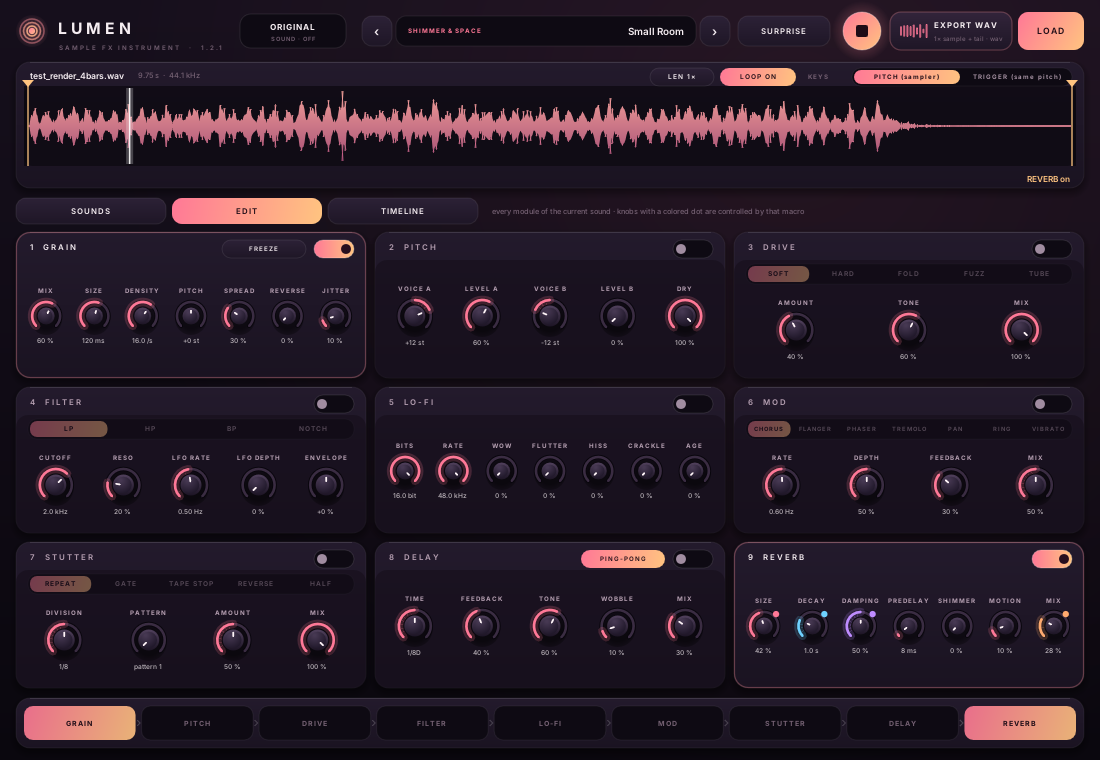
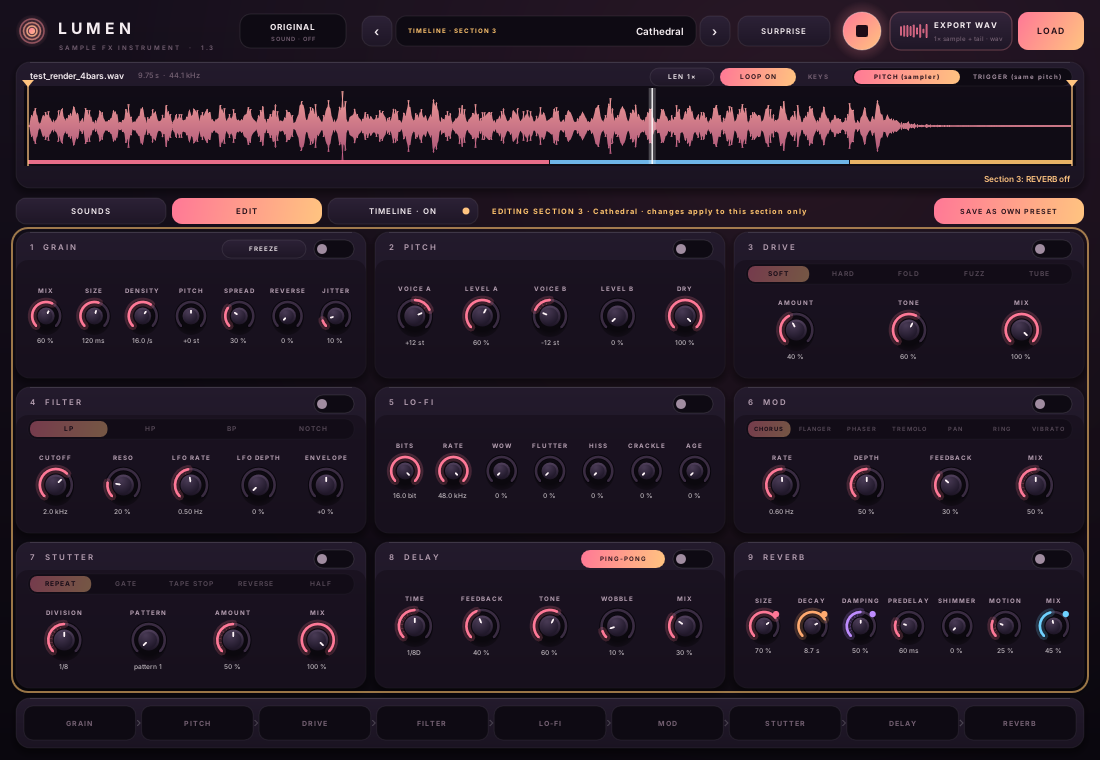
Lumen 1.3: manual and screenshots

diff --git a/docs/make_lumen_manual.py b/docs/make_lumen_manual.py
@@ -25,19 +25,19 @@ def table(rows, widths, style=B):
                            ("LEFTPADDING", (0, 0), (-1, -1), 6), ("RIGHTPADDING", (0, 0), (-1, -1), 6)]))
     return t
 
-story = [Paragraph("Lumen", TITLE), Paragraph("Sample effect instrument &mdash; user manual, version 1.2.1", S), Spacer(1, 4 * mm),
+story = [Paragraph("Lumen", TITLE), Paragraph("Sample effect instrument &mdash; user manual, version 1.3", S), Spacer(1, 4 * mm),
          Image(shot, width=165 * mm, height=165 * mm * 760 / 1100), Spacer(1, 3 * mm)]
 
 story += [Paragraph("What it is", H2), P(
-    "Lumen plays your sample through <b>204 effect sounds in 12 categories</b>: "
-    "granular clouds, shimmering spaces, pads, rhythmic glitches, tape and lo-fi, pitch and harmony, filter motion and drive &mdash; and, new in 1.2, "
-    "<b>Breakcore &amp; Chaos</b>, <b>Dreamy &amp; Nostalgic</b>, <b>Cinematic &amp; Dark</b> and <b>Sci-Fi &amp; Experimental</b>. "
+    "Lumen plays your sample through <b>219 effect sounds in 13 categories</b>, plus your own: "
+    "granular clouds, shimmering spaces, pads, rhythmic glitches, tape and lo-fi, pitch and harmony, filter motion and drive, breakcore, dreamy, cinematic and sci-fi sounds &mdash; and, new in 1.3, <b>Beautiful Transforms</b>: "
+    "sounds that turn the sample into a choir, strings, glass, bells or wind chimes. "
     "Pick a sound, turn the four big knobs, and drag the result straight into FL Studio. "
     "It is an instrument (it shows up in your instrument list, not under effects). VST3 and CLAP for Windows 10/11 (64-bit). "
     "Loads WAV, AIFF, FLAC and MP3.")]
 
 story += [Paragraph("Install", H2), P(
-    "Run <b>Lumen-1.2.1-Windows-Setup.exe</b> (installing over any older Lumen is fine, and your projects keep their sounds; close your DAW first). It installs Lumen.vst3 to <font face='Courier'>C:\\Program Files\\Common Files\\VST3</font>, "
+    "Run <b>Lumen-1.3-Windows-Setup.exe</b> (installing over any older Lumen is fine, and your projects keep their sounds; close your DAW first). It installs Lumen.vst3 to <font face='Courier'>C:\\Program Files\\Common Files\\VST3</font>, "
     "Lumen.clap to <font face='Courier'>...\\Common Files\\CLAP</font> and this manual to <font face='Courier'>C:\\Program Files\\Lumen</font>. "
     "<b>FL Studio:</b> Options &rarr; Manage plugins &rarr; <i>Find installed plugins</i>; Lumen appears with the instruments (Generators). "
     "SmartScreen may warn because the installer isn't code-signed: <i>More info</i> &rarr; <i>Run anyway</i>.")]
@@ -60,8 +60,13 @@ story += [Paragraph("The main screen", H2), table([
     ["Play / STOP", "Plays the sample from the start. With LOOP OFF it plays once and the button pops out at the end. "
              "While anything can be heard (Play, MIDI keys, or echoes and reverb still ringing) the button shows a square: <b>STOP</b> cuts everything "
              "to silence at once (with a 10 ms fade so it doesn't click)."],
-    ["DRAG TO DAW", "Press and drag into FL Studio: renders the sample through the current sound (plus the reverb/echo tail) to a 24-bit WAV. "
-                    "A plain click saves it and opens the folder <font face='Courier'>Documents\\Grainfield Renders</font>."],
+    ["DRAG TO DAW", "Press and drag into FL Studio: you get the sample through the current sound (plus the reverb/echo tail) as a 24-bit WAV. "
+                    "It is rendered in the background as soon as your mouse reaches the tile (a small bar shows the progress, then <i>ready to drag</i>), "
+                    "so the plugin never freezes. A plain click saves it and opens the folder <font face='Courier'>Documents\\Grainfield Renders</font>."],
+    ["SAVE AS OWN PRESET", "Appears at the top right as soon as you change a sound (its knobs, or anything on the EDIT page). Type a name and "
+                           "press Enter: the sound goes into <b>OWN PRESETS</b>, the last category, in every project. They are kept in "
+                           "<font face='Courier'>Documents\\Lumen\\Own Presets.txt</font> (copy that file to take them to another computer); "
+                           "projects also keep a copy of the ones they use. Right-click an own preset twice to remove it."],
     ["LEN 1\u00d7 / 2\u00d7 / 4\u00d7", "How many times the sample plays in the render (for looping sounds and rhythmic effects)."],
     ["Waveform", "<b>Click</b> anywhere between the handles to play from that spot (click again somewhere else to jump there). "
                  "<b>Right-click</b> moves the nearest start or end handle to that spot. You can also drag the two triangle handles; "
@@ -69,7 +74,7 @@ story += [Paragraph("The main screen", H2), table([
     ["LOOP", "On: the sample repeats (with a tiny crossfade so the loop doesn't click). Off: it plays once."],
     ["KEYS", "MIDI keys also play the sample. <b>PITCH</b>: like a sampler, C3 = original, other keys transpose. <b>TRIGGER</b>: every key "
              "plays it at the original pitch."],
-    ["Categories / sounds", "Twelve categories (15 to 18 sounds each), or ALL SOUNDS (scroll with the wheel). A dot marks the category of the current sound."],
+    ["Categories / sounds", "Thirteen categories (15 to 18 sounds each), OWN PRESETS, or ALL SOUNDS (scroll with the wheel). A dot marks the category of the current sound."],
     ["Four big knobs", "Each sound gives you four macros that change several settings at once. Double-click or right-click resets a knob to the sound's default."],
     ["DRY / WET, OUTPUT", "Blend dry/effect, and the overall volume. All sounds are level-matched so switching doesn't jump in loudness."],
     ["Chain (bottom row)", "The nine effect modules in signal order. Lit = on. Click one to switch it on or off."],
@@ -99,7 +104,7 @@ story += [table([
 
 story += [CondPageBreak(110 * mm), Paragraph("TIMELINE: fade from one sound to the next", H2), P(
     "The <b>TIMELINE</b> tab lets the sound change while the sample plays: sound A at the start, B in the middle, C at the end, each one "
-    "fading smoothly into the next. Up to six sounds."),
+    "fading smoothly into the next. Up to 32 sounds."),
     Image(shot3, width=165 * mm, height=165 * mm * 760 / 1100), Spacer(1, 2 * mm), P(
     "<b>In four clicks:</b> open TIMELINE (it starts with your current sound as section 1) &rarr; <b>double-click</b> in the waveform where "
     "sound B should start &rarr; click B in the list below &rarr; double-click where C should start and click C. Press Play: A fades into B, "
@@ -117,12 +122,14 @@ story += [CondPageBreak(110 * mm), Paragraph("TIMELINE: fade from one sound to t
     ["CURVE", "<b>SMOOTH</b>: gentle, constant loudness. <b>LINEAR</b>: a straight blend. <b>SHARP</b>: the change happens quickly in the middle of the fade."],
     ["TAILS", "<b>RING</b>: echoes and reverb of the old sound die out naturally over the new one. <b>CUT</b>: the old sound stops with its fade."],
     ["Four knobs", "Shape the selected section only (each section remembers its own settings)."],
+    ["EDIT", "With the timeline on, the EDIT tab changes the <b>selected section's</b> sound only (its name gets a *). "
+             "Double-click a knob to go back to the sound's own value. SAVE AS OWN PRESET keeps the result."],
+    ["+ ADD SOUND", "Splits the longest section in the middle (up to 32 sections)."],
     ["ON", "Switches the timeline off to hear the single sound again, and back on. Your sections are kept."],
 ], [30 * mm, 140 * mm]), P(
     "The timeline follows the sample: with LOOP on it starts again at section 1 on every pass, MIDI keys play it too, and DRAG TO DAW renders "
     "it with all the fades. It is saved with your project and stays when you browse sounds. While it is on, clicking a sound on the SOUNDS page "
-    "gives it to the selected section, and the header arrows and SURPRISE change that section's sound. EDIT changes only the single sound, so "
-    "switch the timeline off to use it.")]
+    "gives it to the selected section, and the header arrows and SURPRISE change that section's sound.")]
 
 story += [Paragraph("Tempo", H2), P(
     "STUTTER and DELAY follow FL Studio's tempo. While the song plays they lock to the song position; when it is stopped they count from "
@@ -136,9 +143,9 @@ story += [Paragraph("Tips and troubleshooting", H2), P(
 
 # ---- all sounds
 src = open(os.path.join(os.path.dirname(os.path.abspath(__file__)), '..', 'plugins', 'Lumen', 'LumenPresets.hpp')).read()
-cats = ["Granular", "Shimmer & Space", "Pads & Textures", "Rhythm & Glitch", "Lo-Fi & Tape", "Pitch & Harmony", "Filter & Motion", "Drive & Character", "Breakcore & Chaos", "Dreamy & Nostalgic", "Cinematic & Dark", "Sci-Fi & Experimental"]
+cats = ["Granular", "Shimmer & Space", "Pads & Textures", "Rhythm & Glitch", "Lo-Fi & Tape", "Pitch & Harmony", "Filter & Motion", "Drive & Character", "Breakcore & Chaos", "Dreamy & Nostalgic", "Cinematic & Dark", "Sci-Fi & Experimental", "Beautiful Transforms"]
 items = re.findall(r'\{ "((?:[^"\\]|\\.)*)", (\d+), "((?:[^"\\]|\\.)*)", kPV', src)
-story += [CondPageBreak(60 * mm), Paragraph("All 204 sounds", H2)]
+story += [CondPageBreak(60 * mm), Paragraph("All 219 sounds", H2)]
 for c, cname in enumerate(cats):
     rows = [["Sound", "What it is"]] + [[n, d.replace('\\"', '"')] for n, cc, d in items if int(cc) == c]
     story += [CondPageBreak(40 * mm), Paragraph(cname, H3), table(rows, [42 * mm, 128 * mm], S)]
@@ -149,7 +156,7 @@ story += [Paragraph("Credits", H2), Paragraph(
 
 def bg(c, d):
     c.saveState(); c.setFillColor(ACC); c.rect(0, A4[1] - 6, A4[0], 6, stroke=0, fill=1)
-    c.setFont("Helvetica", 8); c.setFillColor(DIM); c.drawRightString(A4[0] - 20 * mm, 10 * mm, "Lumen 1.2.1  \u00b7  page %d" % d.page); c.restoreState()
+    c.setFont("Helvetica", 8); c.setFillColor(DIM); c.drawRightString(A4[0] - 20 * mm, 10 * mm, "Lumen 1.3  \u00b7  page %d" % d.page); c.restoreState()
 
 SimpleDocTemplate(out, pagesize=A4, leftMargin=20 * mm, rightMargin=20 * mm, topMargin=15 * mm, bottomMargin=15 * mm,
                   title="Lumen Manual", author="Grainfield Audio").build(story, onFirstPage=bg, onLaterPages=bg)
